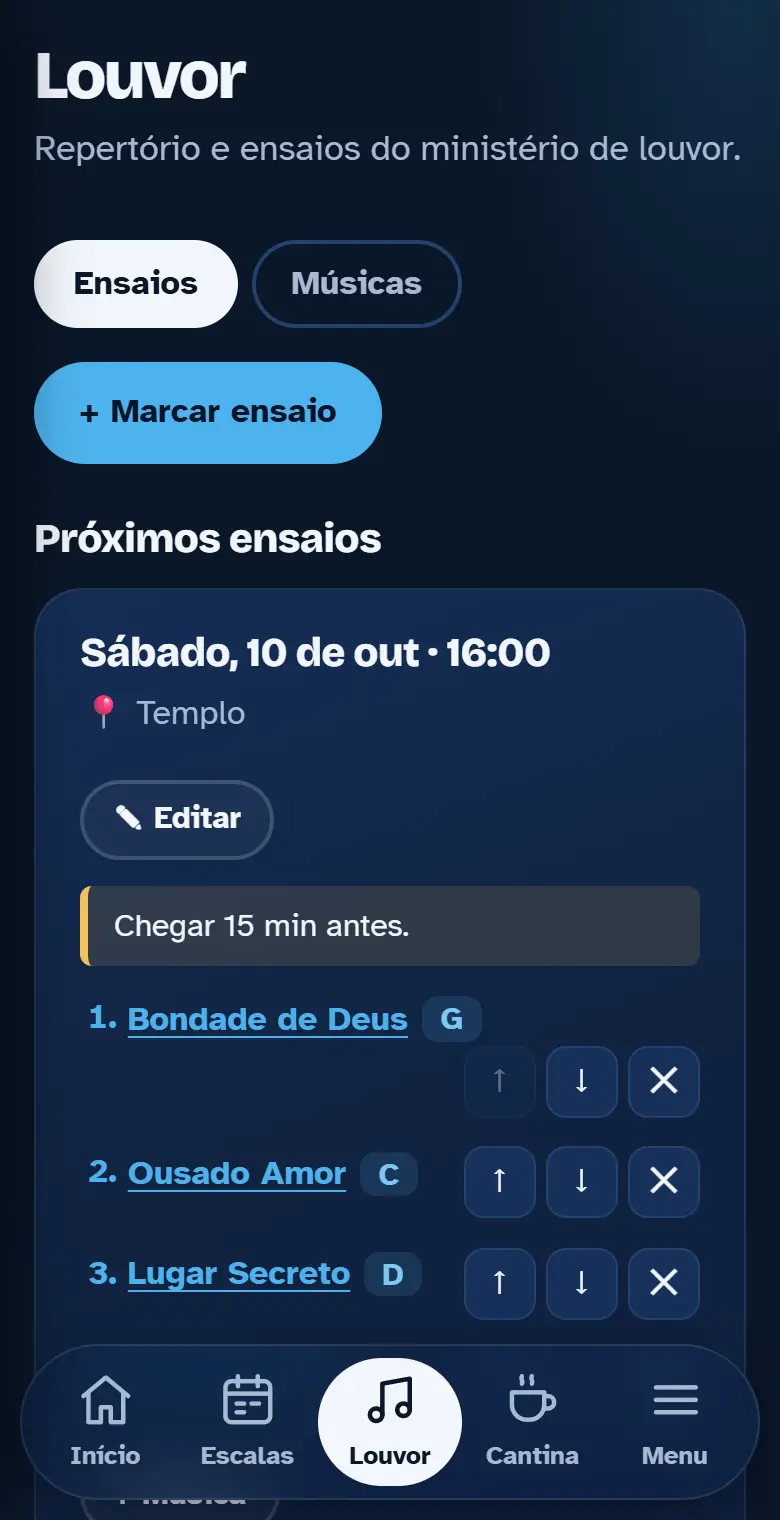
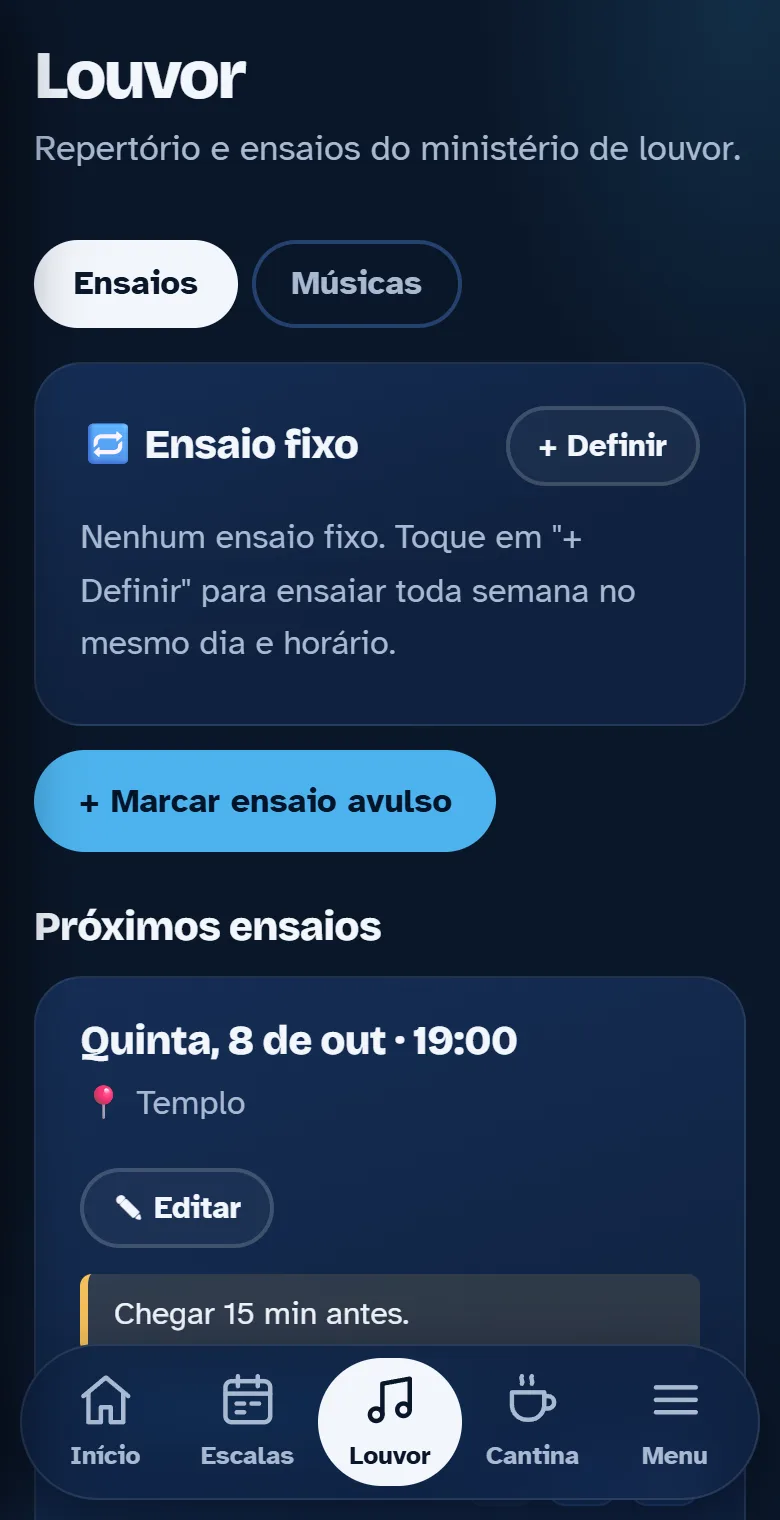
Ensaio fixo do Louvor e para qual culto são as músicas de cada ensaio

diff --git a/js/pages/louvor.js b/js/pages/louvor.js
@@ -13,12 +13,84 @@
     { nome: 'letra', rotulo: 'Letra / cifra', tipo: 'textarea', linhas: 8 },
     { nome: 'observacoes', rotulo: 'Observações', tipo: 'textarea', linhas: 2 },
   ];
-  const CAMPOS_ENSAIO = [
-    { nome: 'data', rotulo: 'Dia', tipo: 'date', obrigatorio: true },
-    { nome: 'hora', rotulo: 'Horário', tipo: 'time' },
+  // Dias de culto da igreja (quarta e domingo): as músicas de cada ensaio são para um deles
+  const DIAS_CULTO = [3, 0];
+  const SEMANAS_FIXO = 4; // quantas semanas do ensaio fixo aparecem para a frente
+
+  // próximo dia de culto (quarta ou domingo, ou o dia pedido) a partir de um dia, contando o próprio dia
+  function proximoCulto(iso, diaSemana) {
+    for (let i = 0; i < 14; i++) {
+      const d = util.somarDias(iso, i);
+      const dia = util.parse(d).getDay();
+      if (diaSemana != null ? dia === diaSemana : DIAS_CULTO.includes(dia)) return d;
+    }
+    return null;
+  }
+
+  function opcoesCulto(apartirDe, atual) {
+    const dias = [];
+    for (let i = -3; i < 35 && dias.length < 8; i++) {
+      const d = util.somarDias(apartirDe, i);
+      if (DIAS_CULTO.includes(util.parse(d).getDay())) dias.push(d);
+    }
+    if (atual && !dias.includes(atual)) dias.unshift(atual);
+    return dias.map((d) => ({ valor: d, texto: 'Culto de ' + util.dataLonga(d).toLowerCase() }));
+  }
+
+  function camposEnsaio(e) {
+    const base = (e && e.data) || util.hoje();
+    return [
+      { nome: 'data', rotulo: 'Dia do ensaio', tipo: 'date', obrigatorio: true },
+      { nome: 'hora', rotulo: 'Horário', tipo: 'time' },
+      { nome: 'local', rotulo: 'Local', padrao: 'Templo' },
+      { nome: 'culto_data', rotulo: 'As músicas são para qual culto?', tipo: 'select', vazio: '— não definido —',
+        opcoes: opcoesCulto(base, e && e.culto_data), ajuda: 'Ex.: ensaio na quinta para o culto de domingo.' },
+      { nome: 'observacoes', rotulo: 'Observações', tipo: 'textarea', linhas: 2 },
+    ];
+  }
+
+  const NOMES_DIAS = util.DIAS.map((d, i) => ({ valor: String(i), texto: d === 'Sábado' || d === 'Domingo' ? d : d + '-feira' }));
+  const CAMPOS_FIXO = [
+    { nome: 'dia_semana', rotulo: 'Dia da semana', tipo: 'select', vazio: false, padrao: '4', opcoes: NOMES_DIAS },
+    { nome: 'hora', rotulo: 'Horário', tipo: 'time', padrao: '19:00' },
     { nome: 'local', rotulo: 'Local', padrao: 'Templo' },
-    { nome: 'observacoes', rotulo: 'Observações', tipo: 'textarea', linhas: 2 },
+    { nome: 'culto_dia_semana', rotulo: 'As músicas são para o culto de', tipo: 'select', vazio: '— cada semana eu escolho —',
+      opcoes: DIAS_CULTO.map((d) => ({ valor: String(d), texto: util.DIAS[d] })) },
   ];
+
+  // Ensaios marcados + os próximos do ensaio fixo (que ainda não viraram linha no banco).
+  // Os do ensaio fixo vêm com virtual: true até alguém mexer neles.
+  function juntarEnsaios(ensaios, fixos, hoje) {
+    const lista = ensaios.slice();
+    for (const f of fixos) {
+      let d = proximoCulto(hoje, Number(f.dia_semana));
+      for (let s = 0; s < SEMANAS_FIXO; s++, d = util.somarDias(d, 7)) {
+        if (ensaios.some((e) => e.fixo_id === f.id && e.data === d)) continue;
+        lista.push({
+          id: `fixo-${f.id}-${d}`, virtual: true, fixo_id: f.id, data: d, hora: f.hora, local: f.local,
+          culto_data: f.culto_dia_semana != null ? proximoCulto(d, Number(f.culto_dia_semana)) : null,
+        });
+      }
+    }
+    return lista.sort((a, b) => (a.data + (a.hora || '')).localeCompare(b.data + (b.hora || '')));
+  }
+
+  // Próximos ensaios (já com os do ensaio fixo). Usado também na tela Início.
+  App.proximosEnsaios = async function () {
+    const hoje = util.hoje();
+    const [ensaios, fixos] = await Promise.all([
+      App.db.list('ensaios', { gte: { data: hoje }, order: 'data' }),
+      App.db.list('ensaios_fixos'),
+    ]);
+    return juntarEnsaios(ensaios, fixos, hoje).filter((e) => !e.cancelado);
+  };
+
+  // Ensaio do fixo que ainda não existe no banco: cria a linha antes de mexer
+  async function garantir(e) {
+    if (!e.virtual) return e;
+    const { virtual, id, ...dados } = e;
+    return App.db.insert('ensaios', dados);
+  }
 
   let aba = 'ensaios';
 
@@ -58,26 +130,88 @@
     desenhar();
   }
 
+  function textoFixo(f) {
+    const dia = NOMES_DIAS[f.dia_semana].texto.toLowerCase();
+    // domingo e sábado: "todo"; os outros dias: "toda"
+    const todo = [0, 6].includes(Number(f.dia_semana)) ? 'Todo' : 'Toda';
+    return [`${todo} ${dia}${f.hora ? ' às ' + f.hora : ''}`, f.local,
+      f.culto_dia_semana != null ? 'músicas para o culto de ' + util.DIAS[f.culto_dia_semana].toLowerCase() : null].filter(Boolean).join(' · ');
+  }
+
+  function editarFixo(f, recarregar) {
+    App.editarRegistro({
+      tabela: 'ensaios_fixos', titulo: f ? 'Editar ensaio fixo' : 'Ensaio fixo', campos: CAMPOS_FIXO,
+      registro: f ? { ...f, dia_semana: String(f.dia_semana), culto_dia_semana: f.culto_dia_semana == null ? '' : String(f.culto_dia_semana) } : null,
+      nomeItem: 'este ensaio fixo (os ensaios que já têm músicas continuam)',
+      depois: recarregar,
+    });
+  }
+
+  // Editar um ensaio. No ensaio que veio do fixo, "Apagar" vira "Cancelar este dia"
+  // (se apagasse, ele voltaria a aparecer na semana).
+  function editarEnsaio(e, recarregar) {
+    let m;
+    const novo = !e.id;
+    const form = App.formulario(camposEnsaio(e), e, {
+      aoSalvar: async (dados) => {
+        if (novo) await App.db.insert('ensaios', dados);
+        else await App.db.update('ensaios', (await garantir(e)).id, dados);
+        m.fechar(); App.toast('Ensaio salvo.'); recarregar();
+      },
+      aoApagar: novo ? null : async () => {
+        if (e.fixo_id) {
+          if (!(await App.confirmar(`Cancelar o ensaio de ${util.dataLonga(e.data).toLowerCase()}? O ensaio fixo das outras semanas continua.`, 'Sim, cancelar'))) return;
+          await App.db.update('ensaios', (await garantir(e)).id, { cancelado: true });
+          m.fechar(); App.toast('Ensaio cancelado.'); recarregar();
+          return;
+        }
+        if (!(await App.confirmar('Tem certeza que quer apagar este ensaio? Isso não pode ser desfeito.'))) return;
+        await App.db.remove('ensaios', e.id);
+        m.fechar(); App.toast('Apagado.'); recarregar();
+      },
+    });
+    if (e.fixo_id) {
+      const apagar = form.querySelector('.btn.perigo');
+      if (apagar) apagar.textContent = 'Cancelar este dia';
+    }
+    m = App.modal(novo ? 'Marcar ensaio avulso' : 'Editar ensaio', form);
+  }
+
   async function abaEnsaios(el, recarregar) {
-    const [ensaios, musicas, em] = await Promise.all([
+    const [ensaios, fixos, musicas, em] = await Promise.all([
       App.db.list('ensaios', { order: 'data' }),
+      App.db.list('ensaios_fixos', { order: 'dia_semana' }),
       App.db.list('musicas', { order: 'titulo' }),
       App.db.list('ensaio_musicas', { order: 'ordem' }),
     ]);
     const pmu = util.porId(musicas);
     const hoje = util.hoje();
-    const proximos = ensaios.filter((e) => e.data >= hoje);
-    const passados = ensaios.filter((e) => e.data < hoje).reverse();
-
     const podeEnsaios = App.posso('ensaios');
     const podeSetlist = App.posso('ensaio_musicas');
+    const todos = juntarEnsaios(ensaios, fixos, hoje);
+    // cancelado só aparece para quem pode desfazer
+    const proximos = todos.filter((e) => e.data >= hoje && (!e.cancelado || podeEnsaios));
+    const passados = ensaios.filter((e) => e.data < hoje && !e.cancelado).reverse();
+
+    // Ensaio fixo (toda semana)
+    el.appendChild(h('section.card.ensaio-fixo',
+      h('div.card-topo', h('h2', '🔁 Ensaio fixo'),
+        podeEnsaios ? h('button.btn.secundario.pequeno', { type: 'button', onclick: () => editarFixo(null, recarregar) }, fixos.length ? '+ Outro' : '+ Definir') : null),
+      fixos.length
+        ? h('ul.lista-simples', fixos.map((f) => h('li',
+          h('span', textoFixo(f)),
+          podeEnsaios ? h('button.link', { type: 'button', onclick: () => editarFixo(f, recarregar) }, 'Editar') : null)))
+        : h('p.muted', podeEnsaios
+          ? 'Nenhum ensaio fixo. Toque em "+ Definir" para ensaiar toda semana no mesmo dia e horário.'
+          : 'Nenhum ensaio fixo definido.')));
+
     if (podeEnsaios) {
       el.appendChild(h('div.barra-acoes',
-        h('button.btn', { type: 'button', onclick: () => App.editarRegistro({ tabela: 'ensaios', titulo: 'Marcar ensaio', campos: CAMPOS_ENSAIO, registro: null, depois: recarregar }) }, '+ Marcar ensaio')));
+        h('button.btn', { type: 'button', onclick: () => editarEnsaio({}, recarregar) }, '+ Marcar ensaio avulso')));
     }
 
     const cartao = (e) => {
-      const lista = em.filter((x) => x.ensaio_id === e.id).sort((a, b) => (a.ordem || 0) - (b.ordem || 0));
+      const lista = e.virtual ? [] : em.filter((x) => x.ensaio_id === e.id).sort((a, b) => (a.ordem || 0) - (b.ordem || 0));
       const mover = async (i, d) => {
         const a = lista[i], b = lista[i + d];
         if (!b) return;
@@ -88,26 +222,37 @@
       const addMusica = () => {
         const ja = new Set(lista.map((x) => x.musica_id));
         const disp = musicas.filter((m) => !ja.has(m.id));
-        if (!disp.length) return App.toast('Todas as músicas do repertório já estão neste ensaio.', 'aviso');
+        if (!disp.length) return App.toast(musicas.length ? 'Todas as músicas do repertório já estão neste ensaio.' : 'Cadastre músicas na aba Músicas primeiro.', 'aviso');
         let md;
         md = App.modal('Adicionar música ao ensaio', App.formulario([
           { nome: 'musica_id', rotulo: 'Música', tipo: 'select', obrigatorio: true, opcoes: disp.map((m) => ({ valor: m.id, texto: m.titulo + (m.tom ? ` (${m.tom})` : '') })) },
         ], {}, {
           textoSalvar: 'Adicionar',
           aoSalvar: async ({ musica_id }) => {
+            const real = await garantir(e);
             // normaliza a ordem para 0..n antes de colocar a nova no fim
             for (let i = 0; i < lista.length; i++) if (lista[i].ordem !== i) await App.db.update('ensaio_musicas', lista[i].id, { ordem: i });
-            await App.db.insert('ensaio_musicas', { ensaio_id: e.id, musica_id, ordem: lista.length });
+            await App.db.insert('ensaio_musicas', { ensaio_id: real.id, musica_id, ordem: lista.length });
             md.fechar(); recarregar();
           },
         }));
       };
+      const titulo = util.dataLonga(e.data) + (e.hora ? ' · ' + e.hora : '');
+      if (e.cancelado) {
+        return h('section.card.ensaio.passado',
+          h('div.card-topo',
+            h('div', h('h2', titulo), h('p.muted', 'Ensaio cancelado neste dia.')),
+            h('button.btn.secundario.pequeno', { type: 'button', onclick: async () => {
+              await App.db.update('ensaios', e.id, { cancelado: false }); App.toast('Ensaio de volta.'); recarregar();
+            } }, 'Desfazer')));
+      }
       return h('section.card.ensaio' + (e.data < hoje ? '.passado' : ''),
         h('div.card-topo',
-          h('div', h('h2', util.dataLonga(e.data) + (e.hora ? ' · ' + e.hora : '')), e.local ? h('p.muted', '📍 ' + e.local) : null),
-          podeEnsaios ? h('button.btn.secundario.pequeno', { type: 'button', onclick: () => App.editarRegistro({
-            tabela: 'ensaios', titulo: 'Editar ensaio', campos: CAMPOS_ENSAIO, registro: e, depois: recarregar, nomeItem: 'este ensaio',
-          }) }, '✎ Editar') : null),
+          h('div',
+            h('h2', titulo, e.fixo_id ? h('span.selo', 'Fixo') : null),
+            e.culto_data ? h('p.culto-alvo', '🎤 Músicas para o culto de ' + util.dataLonga(e.culto_data).toLowerCase()) : null,
+            e.local ? h('p.muted', '📍 ' + e.local) : null),
+          podeEnsaios ? h('button.btn.secundario.pequeno', { type: 'button', onclick: () => editarEnsaio(e, recarregar) }, '✎ Editar') : null),
         e.observacoes ? h('p.obs', e.observacoes) : null,
         lista.length ? h('ol.setlist', lista.map((x, i) => {
           const mu = pmu[x.musica_id] || { titulo: '(música apagada)' };

diff --git a/js/pages/ajuda.js b/js/pages/ajuda.js
@@ -80,8 +80,9 @@
       'Para mudar depois, toque na música e em **✎ Editar**.',
     ]],
     ['ensaio', 'Marcar um ensaio e escolher as músicas', 'Louvor', tabela('ensaios'), 'louvor', [
-      'Abra **Louvor**, na aba **Ensaios**, e toque em **+ Marcar ensaio**.',
-      'Preencha o dia, o horário e o local e toque em **Salvar**.',
+      'Ensaio toda semana no mesmo dia? Em **Louvor**, na aba **Ensaios**, toque em **+ Definir** no quadro **Ensaio fixo**. Escolha o dia, o horário e para qual culto são as músicas (quarta ou domingo).',
+      'Os ensaios fixos das próximas semanas aparecem sozinhos. Ensaio fora do normal? Toque em **+ Marcar ensaio avulso**.',
+      'Não vai ter ensaio num dia? Toque em **✎ Editar** no ensaio e depois em **Cancelar este dia**.',
       'No ensaio, toque em **+ Música** para escolher as músicas do repertório.',
       'Use **↑** e **↓** para mudar a ordem e **✕** para tirar uma música.',
     ]],
@@ -164,7 +165,7 @@
         'Clique em **Próxima ›** para ver a semana seguinte.'],
     ],
     'ver-musica': [
-      ['musica-ver-1', [14.8, 47.5, 39.0, 5.0], 'ensaio-1', [26.2, 59.0, 11.9, 4.8],
+      ['ensaio-2', [14.8, 36.3, 39, 5], 'ensaio-2', [26.2, 24.6, 11.9, 4.8],
         'Em **Louvor**, toque no nome da música.',
         'Em **Louvor**, clique no nome da música.'],
       ['musica-ver-2', [0.0, 77.7, 102.6, 23.0], 'musica-ver-2', [21.5, 43.9, 57.0, 21.9],
@@ -229,13 +230,19 @@
         'Escreva o nome da música (o resto é opcional) e clique em **Salvar**.'],
     ],
     'ensaio': [
-      ['ensaio-1', [2.8, 23.1, 47.6, 8.3], 'ensaio-1', [22.5, 26.2, 14.5, 7.8],
-        'Em **Louvor**, toque em **+ Marcar ensaio**.',
-        'Em **Louvor**, clique em **+ Marcar ensaio**.'],
-      ['ensaio-2', [8.7, 76.6, 28.6, 6.9], 'ensaio-1', [24.3, 84.4, 8.7, 6.5],
+      ['ensaio-1', [63.2, 25.9, 28, 6.9], 'ensaio-1', [87.1, 28.8, 8.5, 6.5],
+        'Ensaio toda semana? Em **Louvor**, toque em **+ Definir** no quadro **Ensaio fixo**.',
+        'Ensaio toda semana? Em **Louvor**, clique em **+ Definir** no quadro **Ensaio fixo**.'],
+      ['ensaio-fixo', [4.2, 80.2, 91.7, 8.2], 'ensaio-fixo', [31, 66.9, 38.1, 7.8],
+        'Escolha o dia, o horário e para qual culto são as músicas. Depois toque em **Salvar**.',
+        'Escolha o dia, o horário e para qual culto são as músicas. Depois clique em **Salvar**.'],
+      ['ensaio-2', [8.7, 8.6, 82.5, 8.5], 'ensaio-2', [24.3, 8.1, 30.4, 4.8],
+        'Os ensaios das próximas semanas aparecem sozinhos, mostrando para qual culto são as músicas.',
+        'Os ensaios das próximas semanas aparecem sozinhos, mostrando para qual culto são as músicas.'],
+      ['ensaio-2', [8.7, 66.7, 28.6, 6.9], 'ensaio-2', [24.3, 50, 8.7, 6.5],
         'No ensaio, toque em **+ Música** para escolher as músicas.',
         'No ensaio, clique em **+ Música** para escolher as músicas.'],
-      ['ensaio-2', [57.9, 49.7, 33.4, 6.3], 'ensaio-1', [85.5, 58.9, 10.2, 6.0],
+      ['ensaio-2', [57.9, 46.4, 33.4, 6.3], 'ensaio-2', [85.5, 30.8, 10.2, 6],
         'Use as setas para mudar a ordem. O **✕** tira a música do ensaio.',
         'Use as setas para mudar a ordem. O **✕** tira a música do ensaio.'],
     ],

diff --git a/js/seed.js b/js/seed.js
@@ -77,7 +77,12 @@
       ['Grande é o Senhor', 'Adhemar de Campos', 'E', 80], ['Aquieta Minh\'alma', 'Ministério Zoe', 'B', 64],
     ].map(([titulo, artista, tom, bpm]) => ({ id: id('mus'), titulo, artista, tom, bpm, created_at: agora }));
 
-    const ensaio = { id: id('ens'), data: u.somarDias(domingo, 6), hora: '16:00', local: 'Templo', observacoes: 'Chegar 15 min antes.', created_at: agora };
+    // ensaio fixo toda quinta às 19h, com as músicas do culto de domingo
+    let quinta = hoje;
+    while (u.parse(quinta).getDay() !== 4) quinta = u.somarDias(quinta, 1);
+    const fixo = { id: id('fixo'), dia_semana: 4, hora: '19:00', local: 'Templo', culto_dia_semana: 0, created_at: agora };
+    const ensaio = { id: id('ens'), data: quinta, hora: '19:00', local: 'Templo', fixo_id: fixo.id, culto_data: u.somarDias(quinta, 3),
+      cancelado: false, observacoes: 'Chegar 15 min antes.', created_at: agora };
     const ensaio_musicas = musicas.slice(0, 4).map((mu, i) => ({ id: id('em'), ensaio_id: ensaio.id, musica_id: mu.id, ordem: i }));
 
     const cantina_itens = [
@@ -111,6 +116,6 @@
     ].map((p) => ({ id: id('pas'), foto_url: '', texto: 'Texto provisório. A liderança vai escrever um pouco sobre a história e o chamado do pastor.', created_at: agora, ...p }));
 
     return { membros, ministerios, ministerio_membros, escalas, musicas, ensaios: [ensaio], ensaio_musicas,
-      cantina_itens, cantina_vendas, eventos, conteudos, pastores, midia_fotos: [] };
+      cantina_itens, cantina_vendas, eventos, conteudos, pastores, midia_fotos: [], ensaios_fixos: [fixo] };
   };
 })();

diff --git a/js/pages/inicio.js b/js/pages/inicio.js
@@ -74,7 +74,7 @@
         interno('escalas', { gte: { data: domingo }, lte: { data: sabado }, order: 'data' }),
         interno('membros'),
         interno('ministerios'),
-        interno('ensaios', { gte: { data: hoje }, order: 'data' }),
+        visitante ? [] : App.proximosEnsaios(),
       ]);
       const pm = util.porId(membros), pmin = util.porId(ministerios);
       const nome = (window.APP_CONFIG || {}).NOME_IGREJA || 'Igreja';
@@ -139,6 +139,7 @@
         h('div.card-topo', h('h2', '🎵 Próximo ensaio'), h('a.link', { href: '#/louvor' }, 'Louvor')),
         ensaio
           ? [h('p.destaque', util.dataLonga(ensaio.data) + (ensaio.hora ? ' às ' + ensaio.hora : '')),
+            ensaio.culto_data ? h('p.culto-alvo', '🎤 Músicas para o culto de ' + util.dataLonga(ensaio.culto_data).toLowerCase()) : null,
             ensaio.local ? h('p.muted', '📍 ' + ensaio.local) : null]
           : h('p.muted', 'Nenhum ensaio marcado.')));
 

diff --git a/js/ui.js b/js/ui.js
@@ -122,7 +122,7 @@
       if (c.tipo === 'select') {
         input = h('select', { id, name: c.nome },
           c.vazio !== false ? h('option', { value: '' }, c.vazio || '— escolha —') : null,
-          (c.opcoes || []).map((o) => h('option', { value: o.valor, selected: String(o.valor) === String(v ?? '') }, o.texto)));
+          (c.opcoes || []).map((o) => h('option', { value: o.valor, selected: String(o.valor) === String(v ?? c.padrao ?? '') }, o.texto)));
       } else if (c.tipo === 'textarea') {
         input = h('textarea', { id, name: c.nome, rows: c.linhas || 4 });
         input.value = v ?? '';

diff --git a/css/style.css b/css/style.css
@@ -558,3 +558,4 @@ body::before {
 /* Mídia e Som lado a lado, mesma largura e mesma altura */
 .quem-serve { display: grid; grid-template-columns: repeat(auto-fit, minmax(min(300px, 100%), 1fr)); gap: 1.25rem; align-items: stretch; }
 .quem-serve > section.card + section.card { margin-top: 0; }
+.culto-alvo { margin: .35rem 0 0; font-weight: 700; color: var(--primaria); }
